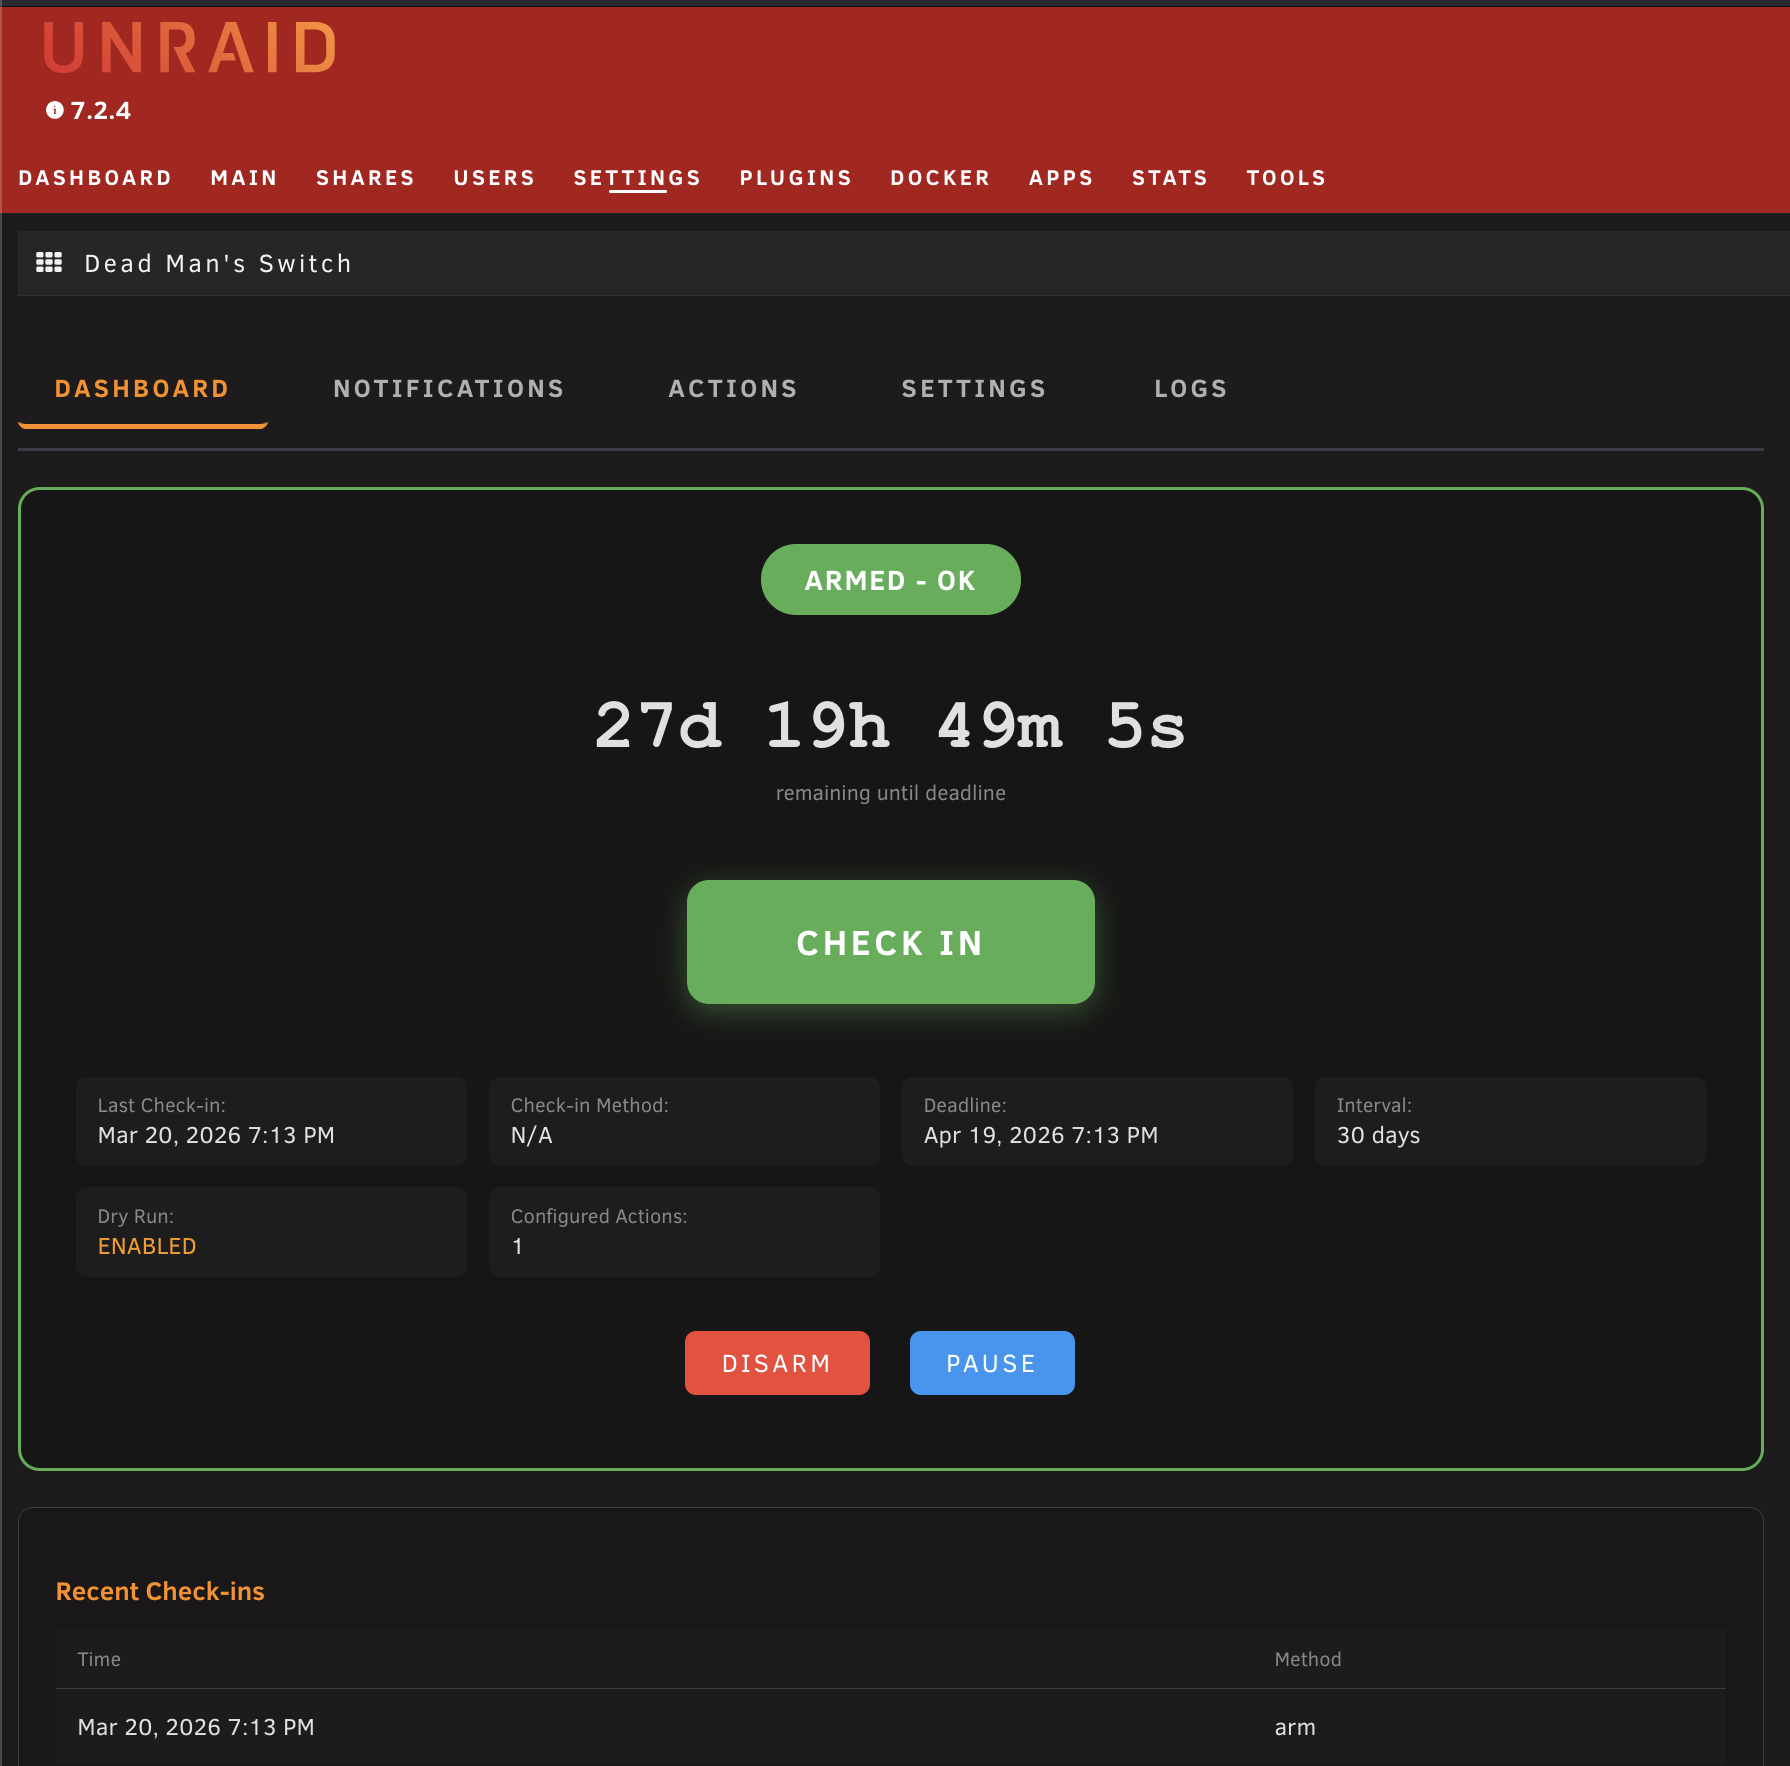
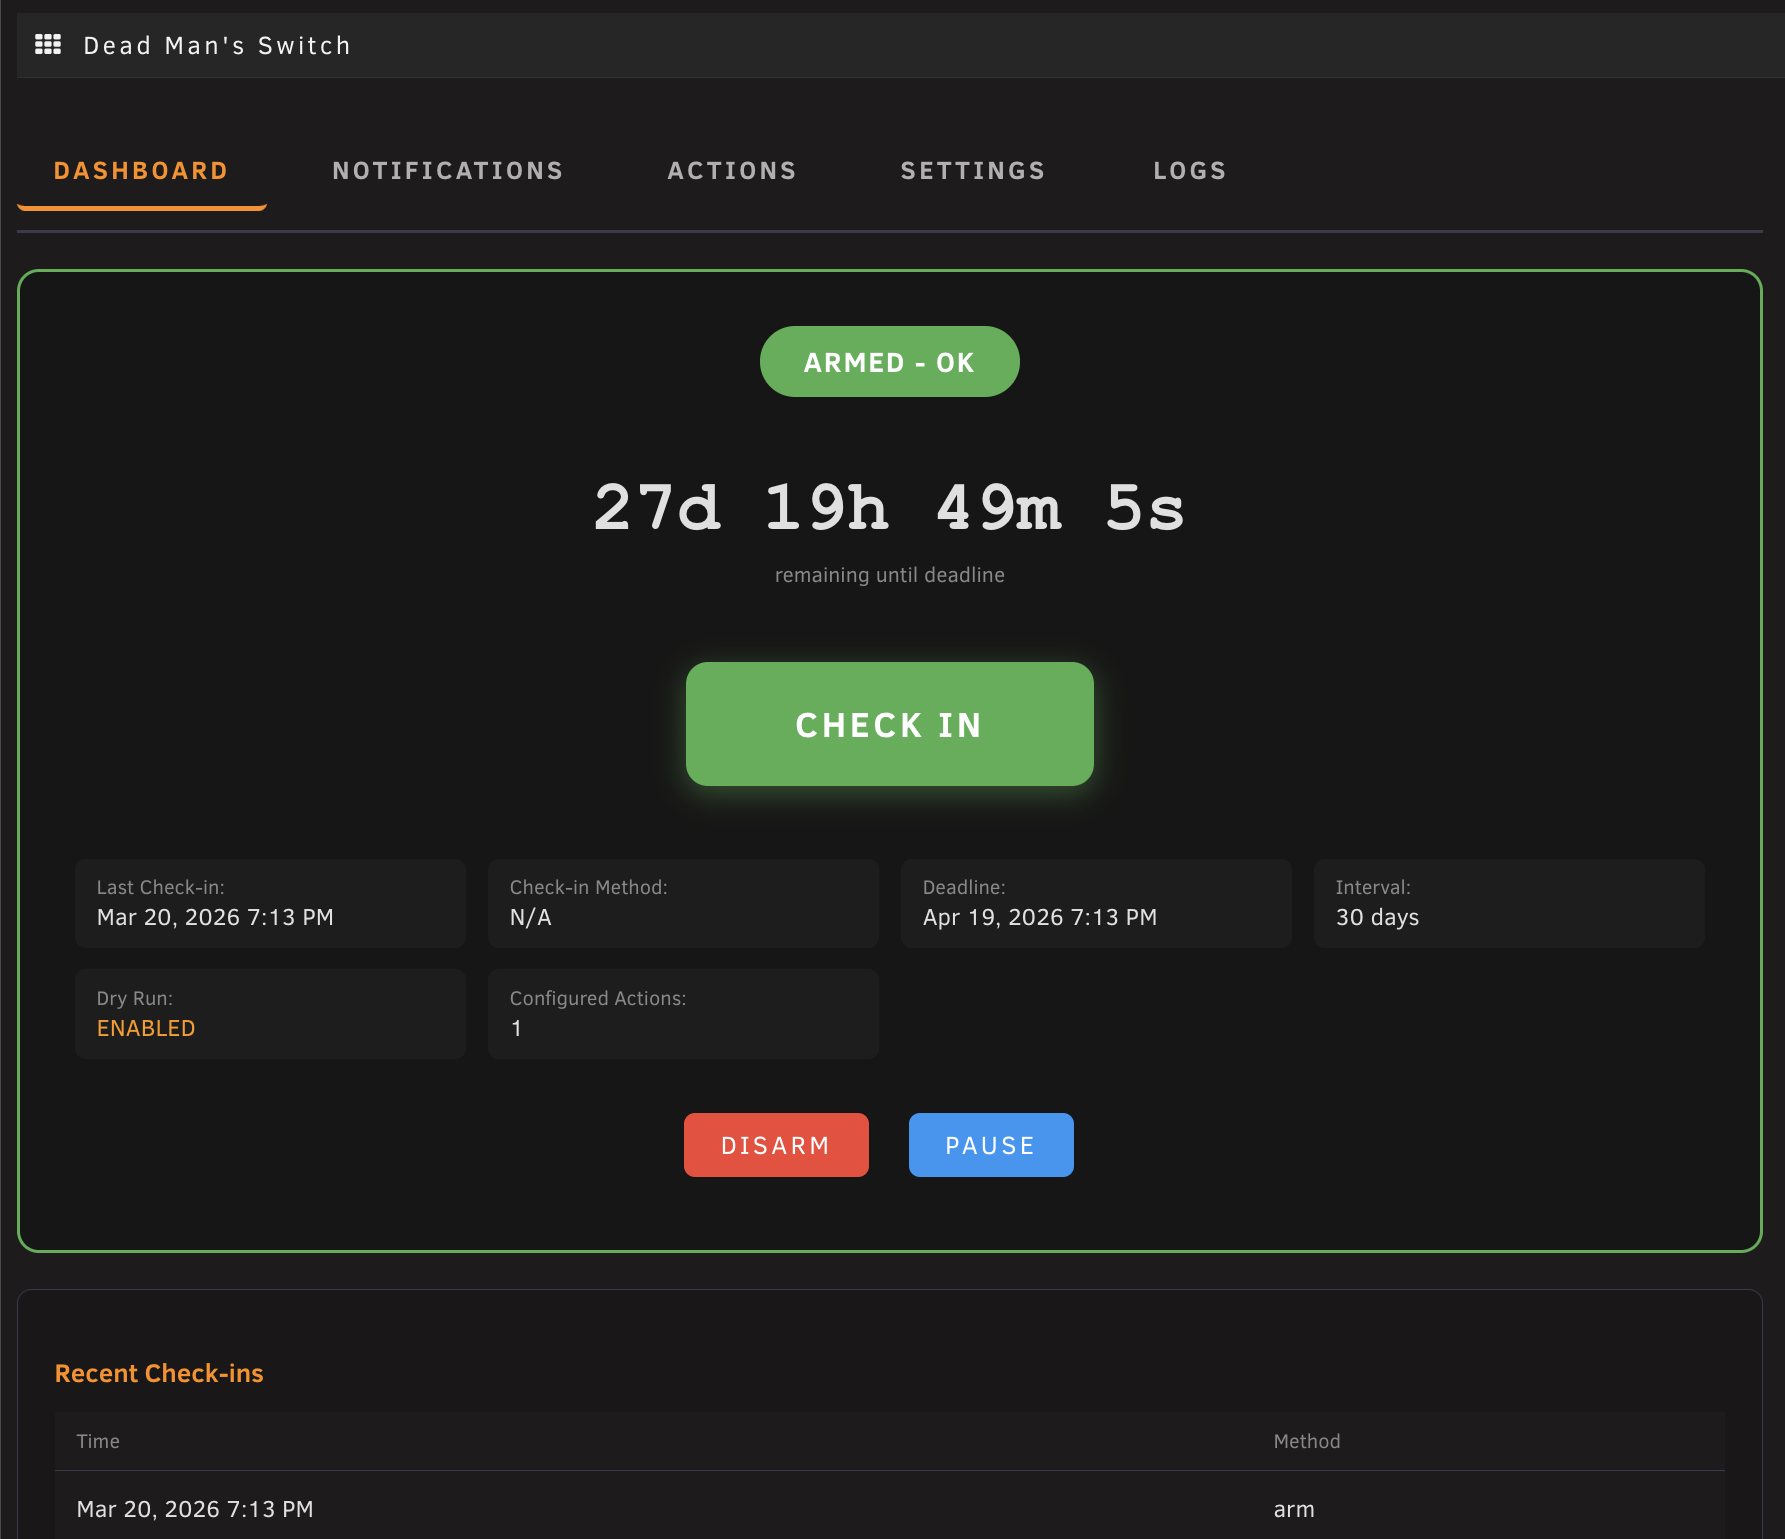
Update README with cropped screenshots and add actions, discord, HA notification screenshots

diff --git a/README.md b/README.md
@@ -4,28 +4,45 @@ A dead man's switch plugin for Unraid that requires periodic check-ins. If you s
 
 Useful for privacy-conscious users who want automated cleanup if they become unable to manage their server.
 
+## Screenshots
+
+### Unraid Dashboard Tile
 ![Dashboard Tile](screenshots/dashboard-tile.png)
+
+### Plugin Dashboard
+![Settings Dashboard](screenshots/settings-dashboard.png)
+
+### Actions Configuration
+![Actions Tab](screenshots/actions-tab.png)
+
+### Discord Notifications
+![Discord Notification](screenshots/discord-notification.png)
 
 ## Features
 
 - **Configurable check-in interval** — set how many days between required check-ins (default: 30)
 - **Grace period** — extra hours after the deadline before actions trigger
-- **Multiple trigger actions** — delete files/folders (with glob support) or run custom scripts
-- **Discord notifications** — rich embeds with severity-matched colors at configurable warning thresholds (50%, 75%, 90%, 95%)
-- **Custom webhook support** — send notifications to any HTTP endpoint
-- **Uptime Kuma integration** — push heartbeat monitoring
-- **External API** — runs on port 3801 for remote check-ins and status queries (API key protected)
-- **Quick check-in links** — one-click token-based check-in URLs (included in Discord notifications)
-- **Dashboard tile** — real-time countdown on the Unraid dashboard
-- **Dry run mode** — test your configuration safely before going live
+- **Trigger actions** — delete files/folders (with glob pattern support) or run custom bash scripts
+- **Dry run mode** — test your entire configuration safely before going live; run a dry test from the Actions tab to see exactly what would happen without actually deleting anything
 - **Arm / Disarm / Pause controls** — full lifecycle management
 - **Double-miss protection** — optionally require two consecutive missed deadlines before triggering
+- **Dashboard tile** — real-time countdown on the Unraid dashboard
 
-![Settings Dashboard](screenshots/settings-dashboard.png)
+### Notifications
+
+- **Discord webhooks** — rich embeds with severity-matched colors and one-click check-in links
+- **Custom webhooks** — send notifications to any HTTP endpoint with configurable method and body template
+- **Uptime Kuma** — push heartbeat monitoring so you can track check-in health externally
+- **Warning thresholds** — configurable alerts at 50%, 75%, 90%, and 95% of elapsed time
+
+### External API
+
+- Runs on **port 3801**, separate from Unraid's authenticated nginx
+- API key protected endpoints for remote check-ins and status queries
+- Token-based quick check-in URLs (included in Discord notifications)
+- CORS enabled for Home Assistant and browser clients
 
 ## Installation
-
-### Via Plugin URL
 
 In the Unraid web UI, go to **Plugins > Install Plugin** and paste:
 
@@ -33,9 +50,7 @@ In the Unraid web UI, go to **Plugins > Install Plugin** and paste:
 https://raw.githubusercontent.com/dereckhall/unraid-deadmans-switch/main/plugin/deadman-switch.plg
 ```
 
-### Requirements
-
-- Unraid 6.12.0 or later
+Requires **Unraid 6.12.0** or later.
 
 ## Configuration
 
@@ -45,25 +60,21 @@ After installation, go to **Settings > Dead Man's Switch**. The UI has five tabs
 |-----|-------------|
 | **Dashboard** | Live countdown, check-in button, arm/disarm/pause controls |
 | **Notifications** | Discord webhooks, custom webhooks, Uptime Kuma push URL, warning thresholds |
-| **Actions** | File/folder deletions (glob patterns supported) and script executions |
+| **Actions** | File/folder deletions (glob patterns supported) and custom script executions, with dry run testing |
 | **Settings** | Check-in interval, grace period, cron frequency, dry run toggle, API key management |
 | **Logs** | Recent activity and check-in history |
 
-## External API
+## API Reference
 
-The plugin runs a lightweight API server on **port 3801**, separate from Unraid's authenticated nginx. This allows remote check-ins from phones, Home Assistant, scripts, etc.
-
-### Endpoints
+The plugin runs a lightweight API server on **port 3801** for remote access without Unraid authentication.
 
 | Endpoint | Auth | Description |
 |----------|------|-------------|
 | `?action=health` | None | Health check, returns version |
-| `?action=status&key=YOUR_KEY` | API key | Current switch status and countdown |
-| `?action=checkin&key=YOUR_KEY` | API key | Perform a check-in |
-| `?action=get_state&key=YOUR_KEY` | API key | Full state JSON |
+| `?action=status&key=KEY` | API key | Current switch status and countdown |
+| `?action=checkin&key=KEY` | API key | Perform a check-in |
+| `?action=get_state&key=KEY` | API key | Full state JSON |
 | `?action=quickcheckin&token=TOKEN` | Token | One-click check-in (for notification links) |
-
-### Example
 
 ```bash
 # Check status
@@ -75,9 +86,12 @@ curl "http://YOUR_UNRAID_IP:3801/?action=checkin&key=YOUR_API_KEY"
 
 ## Home Assistant Integration
 
-The external API has CORS enabled, making it straightforward to integrate with Home Assistant using REST sensors and automations.
+The external API makes it easy to integrate with Home Assistant using REST sensors, automations, and actionable notifications.
 
-![Home Assistant Card](screenshots/home-assistant-card.png)
+<p float="left">
+  <img src="screenshots/home-assistant-card.png" width="350" />
+  <img src="screenshots/ha-phone-notification.png" width="350" />
+</p>
 
 <details>
 <summary>Example REST sensor configuration</summary>
@@ -103,9 +117,9 @@ rest:
 
 1. **Arm** the switch and perform your first check-in
 2. A cron job runs periodically (default: every 60 minutes) to evaluate the countdown
-3. As the deadline approaches, notifications fire at configurable thresholds
+3. As the deadline approaches, notifications fire at configurable warning thresholds
 4. If you check in before the deadline, the timer resets
-5. If the deadline passes (plus grace period), configured actions execute
+5. If the deadline passes (plus grace period), configured trigger actions execute
 6. The API server self-heals — if the process dies, the cron job restarts it
 
 ## License